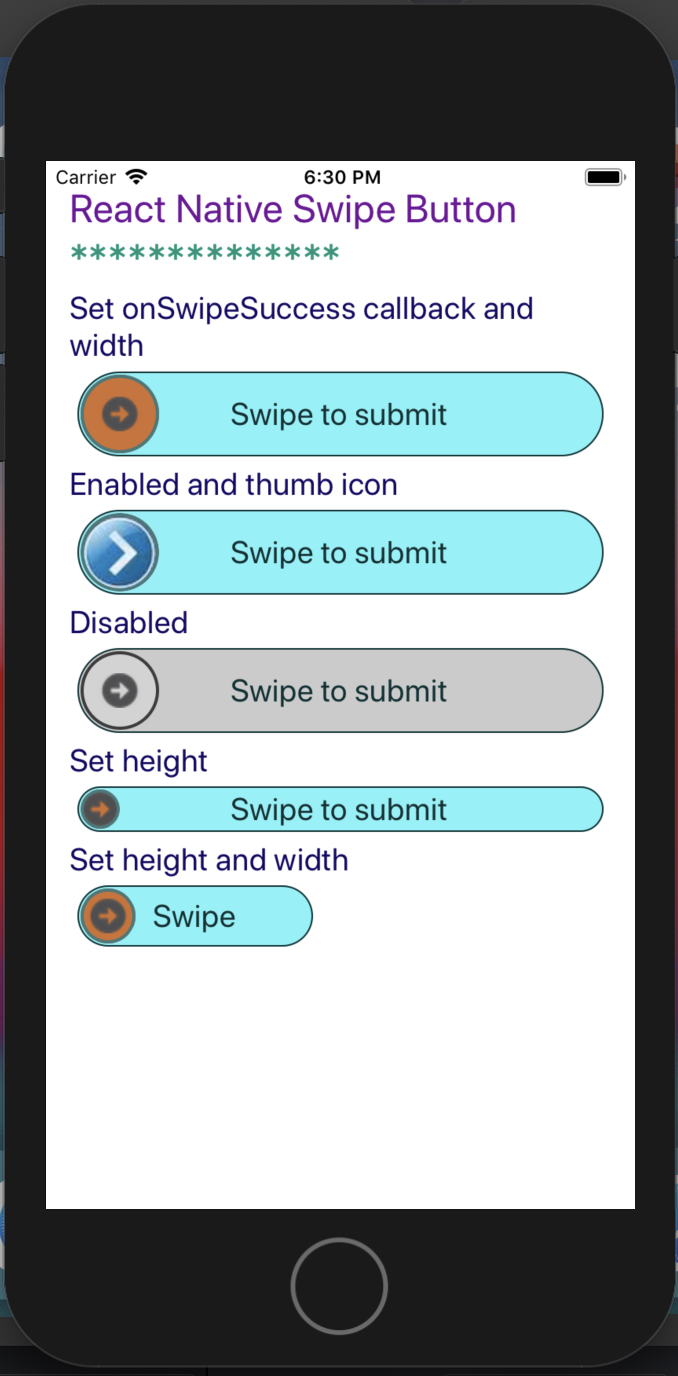
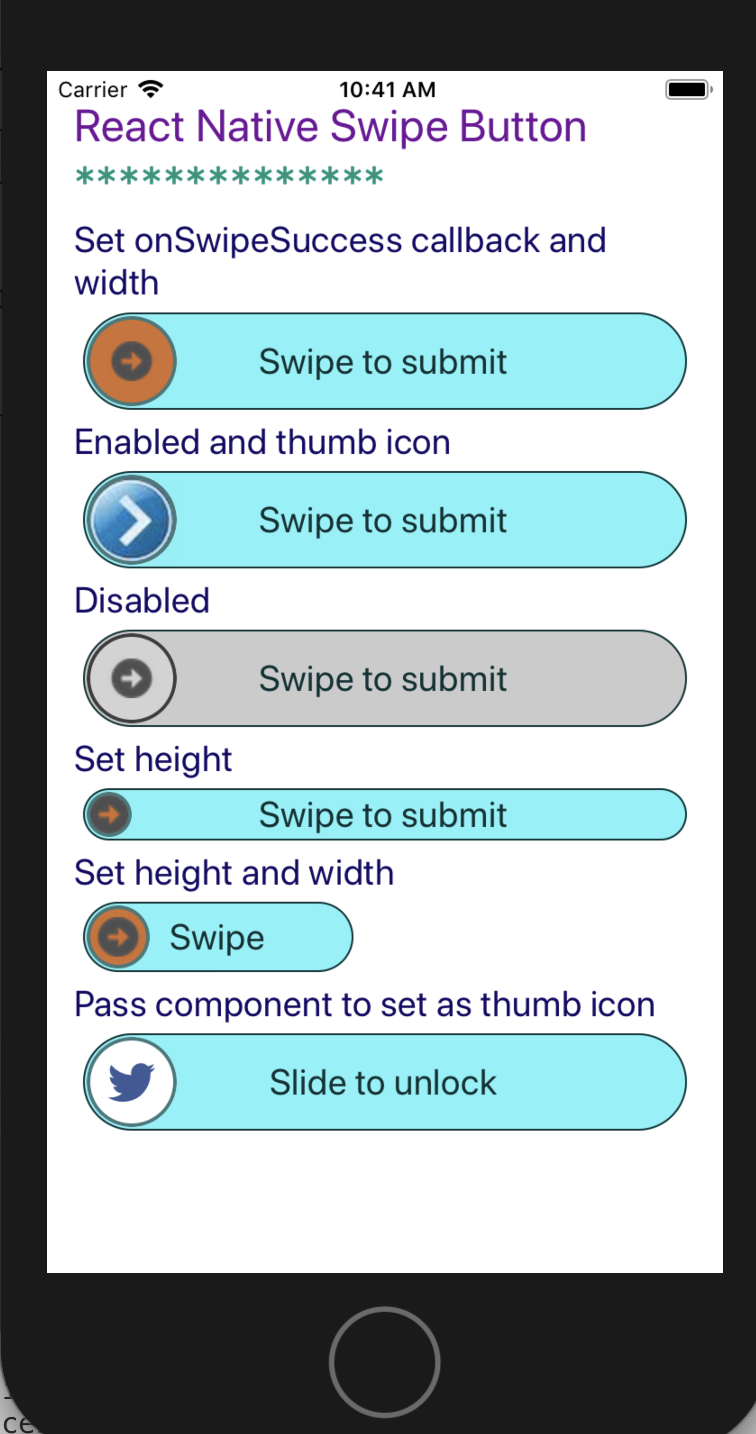
Updating the docs and package version to publish passing component as prop feature

diff --git a/docs/index.html b/docs/index.html
@@ -50,6 +50,8 @@
 
     <b>thumbIconBorderColor</b>: PropTypes.string,
 
+    <b>thumbIconComponent</b>: PropTypes.node,
+
     <b>thumbIconImageSource</b>: PropTypes.oneOfType([
       PropTypes.string,
       PropTypes.number,

diff --git a/README.md b/README.md
@@ -31,6 +31,7 @@
     <b>swipeSuccessThreshold</b>: PropTypes.number, <span style="color: blueviolet">// Ex: 70. Swipping 70% will be considered as successful swipe</span>
     <b>thumbIconBackgroundColor</b>: PropTypes.string,
     <b>thumbIconBorderColor</b>: PropTypes.string,
+    <b>thumbIconComponent</b>: PropTypes.node,
     <b>thumbIconImageSource</b>: PropTypes.oneOfType([
       PropTypes.string,
       PropTypes.number,
@@ -47,10 +48,12 @@
 import React, {Fragment} from 'react';
 import {Text, ToastAndroid} from 'react-native';
 import thumbIcon from './assets/thumbIcon.png';
+import Icon from 'react-native-vector-icons/FontAwesome';
 
 import SwipeButton from 'rn-swipe-button';
 
 const App = () => {
+  const TwitterIcon = () => <Icon name="twitter" color="#3b5998" size={30} />;
   return (
     <View style={{padding: 15}}>
       <Text style={{color: '#700D99', fontSize: 25}}>
@@ -80,6 +83,14 @@ const App = () => {
       <SwipeButton height={25} />
       <Text style={{color: '#140866', fontSize: 20}}>Set height and width</Text>
       <SwipeButton height={35} width={150} title="Swipe" />
+      <Text style={{color: '#140866', fontSize: 20}}>
+        Pass component to set as thumb icon
+      </Text>
+      <SwipeButton
+        thumbIconBackgroundColor="#FFFFFF"
+        thumbIconComponent={TwitterIcon}
+        title="Slide to unlock"
+      />
     </View>
   );
 };
